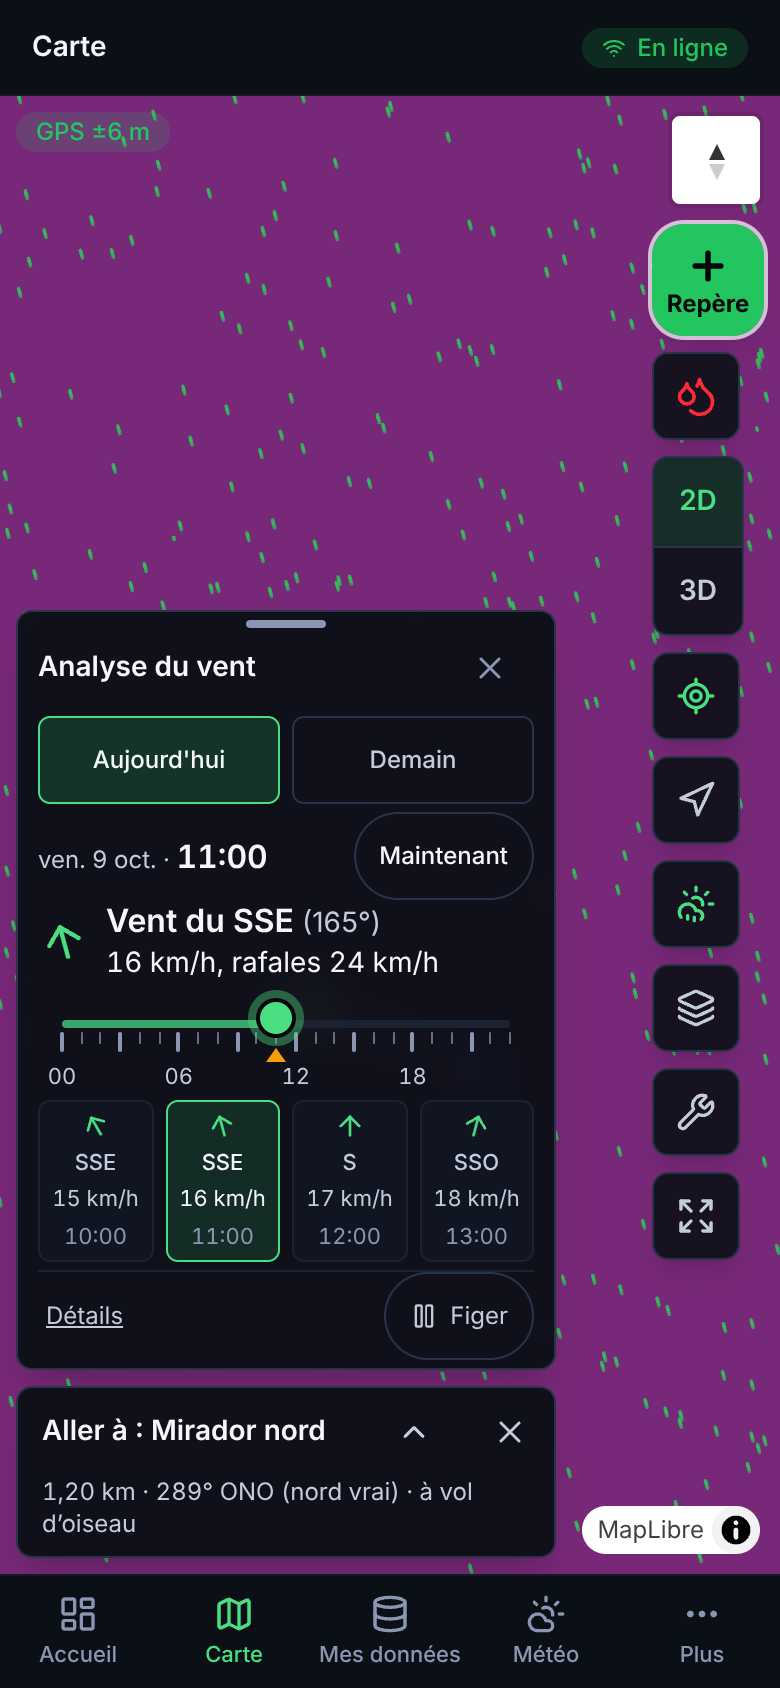
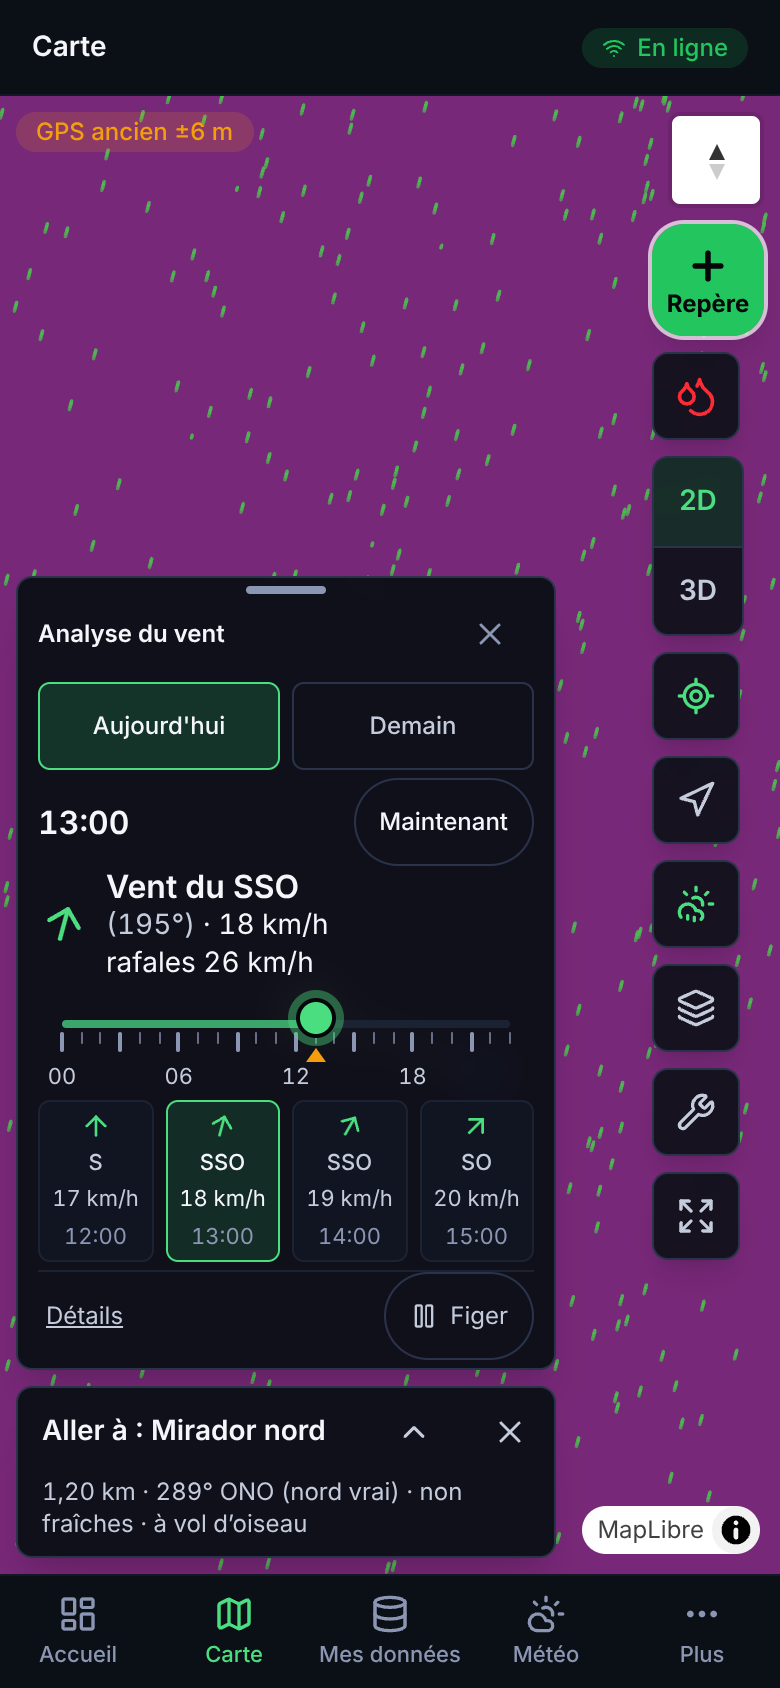
fix: feuille d'analyse du vent robuste à une police plus large (320x568)
Claude-Session: https://claude.ai/code/session_01LYrp3YCXKY4bqCwVL3J1ng

diff --git a/src/features/wind/components/WindAnalysisPanel.tsx b/src/features/wind/components/WindAnalysisPanel.tsx
@@ -29,7 +29,6 @@ import {
   forecastAge,
   formatSlotTime,
   longDateLabel,
-  shortDateLabel,
   nearestAvailableIndex,
   nowSlotIndex,
   readSlot,
@@ -384,7 +383,7 @@ export function WindAnalysisPanel({ viewCenter, getBounds }: WindAnalysisPanelPr
             type="button"
             onClick={() => setExpanded(false)}
             aria-label="Replier l'analyse du vent"
-            className="order-1 flex min-h-11 min-w-0 items-center gap-1 text-sm font-semibold whitespace-nowrap [@media(max-height:480px)]:min-w-11 [@media(max-height:480px)]:justify-center"
+            className="order-1 flex min-h-11 min-w-0 items-center gap-1 text-xs font-semibold whitespace-nowrap @[17rem]:text-sm [@media(max-height:480px)]:min-w-11 [@media(max-height:480px)]:justify-center"
           >
             <span className="[@media(max-height:480px)]:hidden">Analyse du vent</span>
             <ChevronDown
@@ -502,14 +501,10 @@ export function WindAnalysisPanel({ viewCenter, getBounds }: WindAnalysisPanelPr
             <p className="text-ink-300 order-1 min-w-0 text-xs tabular-nums">
               {slot && selectedDay ? (
                 <>
-                  <span className="[@media(max-height:480px)]:hidden">
-                    <span className="@[17rem]:hidden">
-                      {shortDateLabel(selectedDay.dateKey)}
-                    </span>
-                    <span className="hidden @[17rem]:inline">
-                      {longDateLabel(selectedDay.dateKey)}
-                    </span>{' '}
-                    ·{' '}
+                  {/* Sur une feuille étroite, le jour est déjà indiqué par la
+                      pastille active ci-dessus : on garde la place pour l'heure. */}
+                  <span className="hidden @[17rem]:inline [@media(max-height:480px)]:hidden!">
+                    {longDateLabel(selectedDay.dateKey)} ·{' '}
                   </span>
                   <span className="text-ink-100 text-base font-semibold">
                     {formatSlotTime(slot.time)}
@@ -545,19 +540,20 @@ export function WindAnalysisPanel({ viewCenter, getBounds }: WindAnalysisPanelPr
                       </span>
                     )}
                   </p>
-                  <div className="[@media(max-height:480px)]:hidden">
+                  <div className="min-w-0 [@media(max-height:480px)]:hidden">
                     <p className="text-base leading-tight font-semibold">
-                      Vent du {description.fromLabel}{' '}
-                      <span className="text-ink-300 text-sm font-normal">
-                        ({description.fromDegrees}°)
-                      </span>
+                      Vent du {description.fromLabel}
                     </p>
-                    <p className="text-ink-100 text-sm tabular-nums">
+                    <p className="text-ink-100 text-sm leading-snug tabular-nums">
+                      <span className="text-ink-300">({description.fromDegrees}°)</span>
+                      {' · '}
                       {description.speedKmh} km/h
-                      {description.gustsKmh !== null
-                        ? `, rafales ${description.gustsKmh} km/h`
-                        : ''}
                     </p>
+                    {description.gustsKmh !== null && (
+                      <p className="text-ink-100 text-sm leading-snug tabular-nums">
+                        rafales {description.gustsKmh} km/h
+                      </p>
+                    )}
                   </div>
                 </div>
               ) : (

diff --git a/docs/WIND_ANALYSIS.md b/docs/WIND_ANALYSIS.md
@@ -105,3 +105,7 @@ s'affichent dans la ligne compacte seulement si la largeur le permet, sinon dans
 - Pas de « lecture » automatique dans le temps.
 - Zones sûres : appliquées par la coque de l'application, la feuille n'en ajoute
   pas ; vérifiées en émulation Chromium seulement.
+
+## Robustesse à la police
+
+La CI n'a pas la police Inter : le navigateur retombe sur une police système plus large. La mise en page a été vérifiée dans les deux cas (Inter, puis Inter masquée via fontconfig) à 320×568, où la feuille est la plus étroite (≈ 200 px à côté du rail d'outils). Sur une feuille étroite, la date longue est omise (le jour est déjà sur la pastille active) pour garder l'heure et « Maintenant » sur une seule ligne. Les vraies polices d'un iPhone (SF) n'ont pas été testées.
